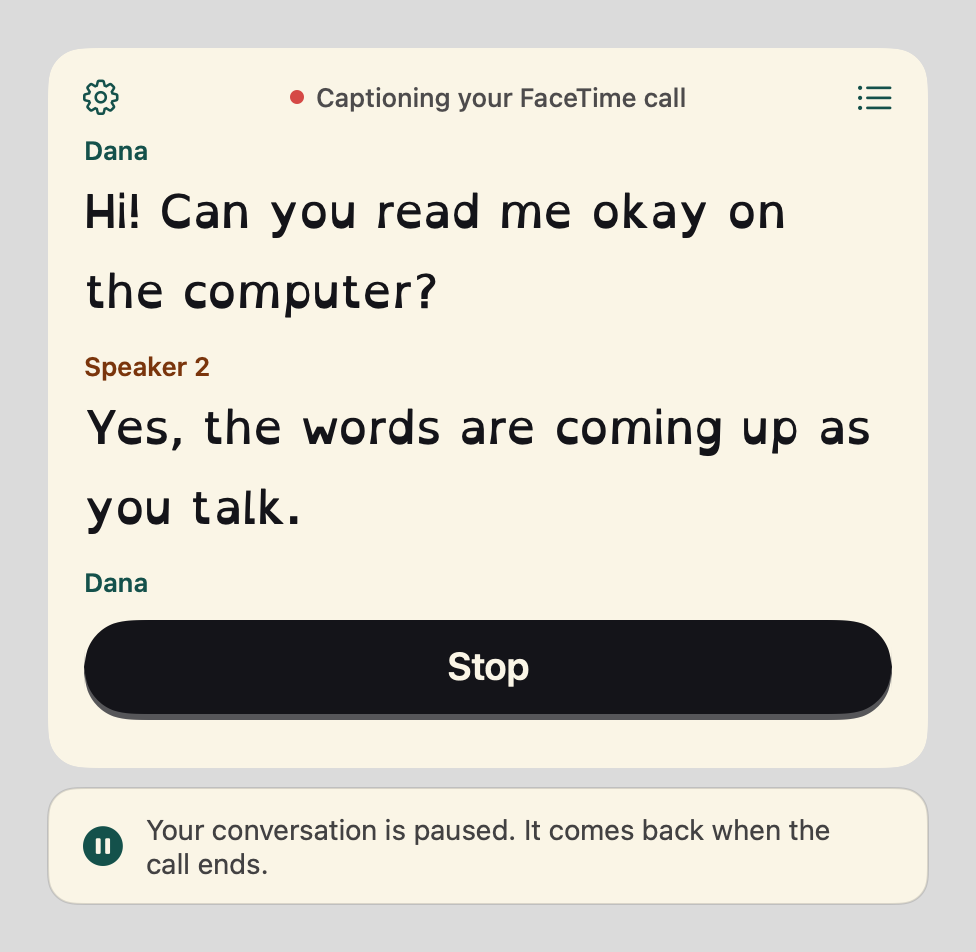
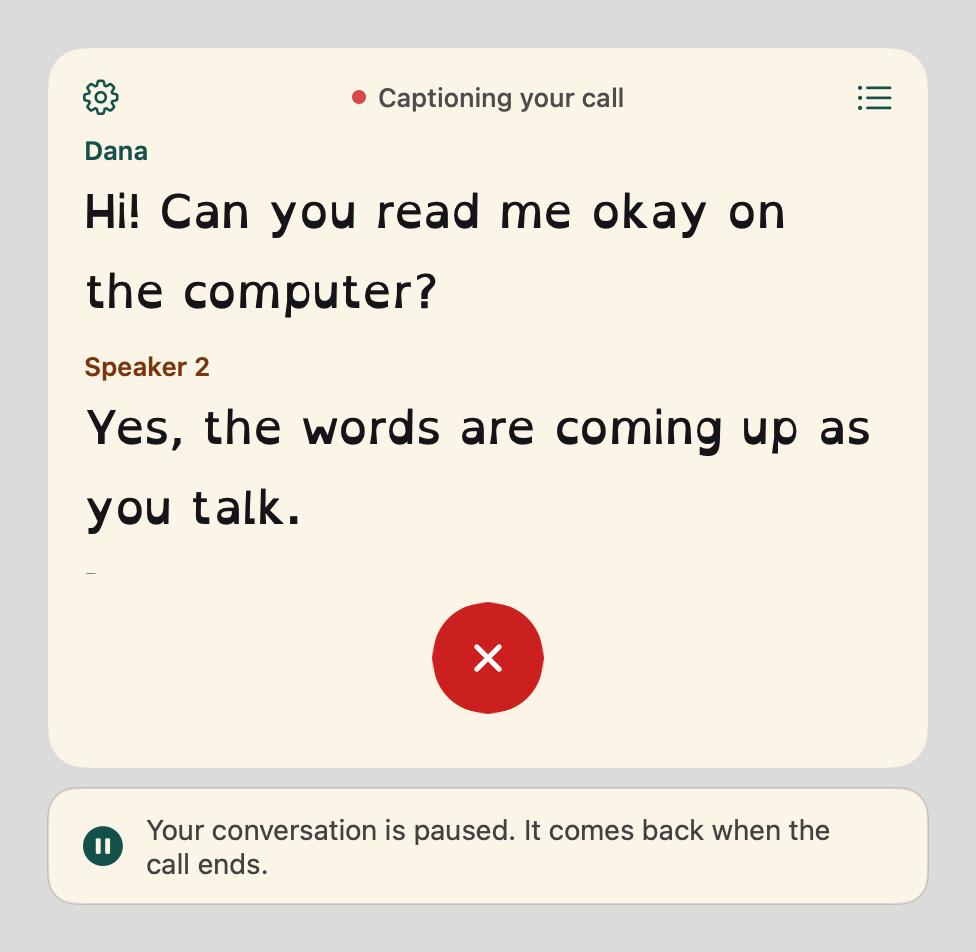
Mac: Stop becomes the iPhone's small X with its shrink; a gap above it; "Captioning your call" (#178)
Owner, 2026-10-28 ~21:20 UTC:
- While captioning, the pop-up's Stop bar is the iPhone's MorphingControl:
  the pill sweeps into the small red X and back, Reduce Motion a crossfade.
  The same file, now also in the Mac target; it gains pillHeight/titleFont
  with the iPhone's values as defaults, so the iPhone is unchanged and the
  Mac keeps its 47 pt Start captions pill. CallPopupView takes the
  PrimaryControl instead of a title.
- 14 pt between the newest caption line and the control.
- FaceTime-run calls (FaceTime and Continuity phone calls) read "Captioning
  your call"; Zoom/Teams/WhatsApp/Webex stay named.
CaptionCore: 775 tests, 0 failures. Mac app and iPhone app (CaptionSpike,
simulator) build.

Refs #178

Claude-Session: https://claude.ai/code/session_013wtERcznEHZfj6JwiA5Wiu

Changed region(s): [[0.0615, 0.6092, 0.9221, 0.7616], [0.2766, 0.0914, 0.707, 0.1218]]

diff --git a/Apps/Mac/Sources/CallPopupView.swift b/Apps/Mac/Sources/CallPopupView.swift
@@ -27,7 +27,8 @@ struct CallPopupView: View {
     let lines: [Line]
     let status: Status
     let style: CaptionStyle
-    let buttonTitle: String
+    /// Start captions / Getting ready… as a pill; while captioning, the iPhone's small X (#178).
+    let control: PrimaryControl
     var buttonEnabled = true
     var onPrimary: () -> Void = {}
     /// The gear: Settings, as on the iPhone (#172 parity).
@@ -46,6 +47,9 @@ struct CallPopupView: View {
     var roomLevelDBFS: Double? = nil
     /// Replaces the top bar's words: "Captioning your FaceTime call" only while a call app is really in a call (#178).
     var statusOverride: String? = nil
+
+    /// The Start captions pill's height on the Mac (its size before the iPhone's control came in).
+    static let pillHeight: CGFloat = 47
 
     private var speakerColors: [RGBA] {
         let colors = style.preset?.speakers ?? SpeakerPalette.colors(on: style.background, text: style.text)
@@ -66,15 +70,18 @@ struct CallPopupView: View {
                 Button(String(localized: "Save conversation"), action: onSave).disabled(!canSave)
                 Button(String(localized: "New conversation"), action: onNew)
             }
-            Button(action: onPrimary) {
-                Text(buttonTitle)
-                    .font(.system(size: 19, weight: .semibold))
+            // The iPhone's control (#178): the pill sweeps into a small red X while captioning and back, Reduce Motion a
+            // crossfade. A gap above it so the newest words never run into it.
+            GeometryReader { geo in
+                MorphingControl(control: control, fullWidth: geo.size.width, fill: style.text, label: style.background,
+                                pillHeight: Self.pillHeight, titleFont: .system(size: 19, weight: .semibold), action: onPrimary)
                     .frame(maxWidth: .infinity)
-                    .padding(.vertical, 12)
             }
-            .buttonStyle(GummyButtonStyle(style: style))
+            .frame(height: max(Self.pillHeight, PrimaryControl.compactDiameter) + GummyButtonStyle.restingLip)
             .disabled(!buttonEnabled)
+            .opacity(buttonEnabled ? 1 : 0.5)
             .keyboardShortcut(.space, modifiers: [])
+            .padding(.top, 14)
             .padding(.horizontal, 18)
             .padding(.bottom, 24)   // a little more room under Stop (owner, 2026-10-28)
         }

diff --git a/Apps/Spike/Sources/MorphingControl.swift b/Apps/Spike/Sources/MorphingControl.swift
@@ -16,6 +16,9 @@ struct MorphingControl: View {
     let label: RGBA
     /// DEBUG demos only: draw the pressed pill without a finger (simctl can't tap).
     var forcePressed: Bool = false
+    /// The pill's height and lettering. The iPhone's by default; the Mac pop-up keeps its own smaller pill (#178).
+    var pillHeight: CGFloat = 72 - GummyButtonStyle.restingLip
+    var titleFont: Font = .title.bold()
     let action: () -> Void
 
     @Environment(\.accessibilityReduceMotion) private var reduceMotion
@@ -23,8 +26,6 @@ struct MorphingControl: View {
     private var compact: Bool { control.presentation == .compact }
     private let stopRed = Color(red: 0.80, green: 0.12, blue: 0.12)
     private var diameter: CGFloat { PrimaryControl.compactDiameter }
-    /// The bar is 72 pt tall; the pill takes all of it but the resting lip.
-    private var pillHeight: CGFloat { 72 - GummyButtonStyle.restingLip }
     /// A capsule as a pill, a circle when compact: the same rounded rectangle, so the sweep stays smooth.
     private var shape: RoundedRectangle { RoundedRectangle(cornerRadius: (compact ? diameter : pillHeight) / 2, style: .continuous) }
 
@@ -41,7 +42,7 @@ struct MorphingControl: View {
                         .id(control.title)
                         .transition(Fluid.wordSwap(reduceMotion))
                 }
-                .font(.title.bold())
+                .font(titleFont)
                 .foregroundStyle(label.color)
                 .lineLimit(1)
                 .minimumScaleFactor(0.6)

diff --git a/Packages/CaptionCore/Sources/CaptionCore/CallWatcher.swift b/Packages/CaptionCore/Sources/CaptionCore/CallWatcher.swift
@@ -38,9 +38,10 @@ public enum CallSignal {
 
     public static func isCallLive(_ activity: [CallAudioActivity]) -> Bool { liveCallApp(activity) != nil }
 
-    /// The top bar's words while that app's call is captioned (owner, 2026-10-28).
+    /// The top bar's words while that app's call is captioned (owner, 2026-10-28). FaceTime calls and iPhone calls
+    /// handed to the Mac both run through FaceTime and can't be told apart, so neither is named (owner, ~21:20 UTC).
     public static func captioningWords(app: String) -> String {
-        String(localized: "Captioning your \(app) call")
+        app == "FaceTime" ? String(localized: "Captioning your call") : String(localized: "Captioning your \(app) call")
     }
 }
 

diff --git a/Apps/Mac/Sources/CaptionMacApp.swift b/Apps/Mac/Sources/CaptionMacApp.swift
@@ -81,7 +81,7 @@ struct CallPopupWindow: View {
                     lines: model.popupLines,
                     status: CallPopupView.Status(model.state, hasLines: !model.popupLines.isEmpty),
                     style: style,
-                    buttonTitle: control.title,
+                    control: control,
                     buttonEnabled: control.isEnabled && calls.arrival.step != .ended,   // #178: answer the save question first
                     onPrimary: { control.action == .stop ? model.stop() : model.start() },
                     onGear: { model.go { $0.gearTapped() } },

diff --git a/Apps/Mac/Sources/CallArrivalMockup.swift b/Apps/Mac/Sources/CallArrivalMockup.swift
@@ -35,7 +35,7 @@ struct CallArrivalMockup: View {
                 lines: step == .ringing ? room : call,
                 status: step == .ended ? .stopped("") : .captioning,
                 style: style,
-                buttonTitle: PrimaryControl.for(step == .ended ? .idle : .listening).title,
+                control: PrimaryControl.for(step == .ended ? .idle : .listening),
                 buttonEnabled: step != .ended,
                 statusOverride: step == .call ? CallSignal.captioningWords(app: "FaceTime") : step == .ended ? String(localized: "Call ended") : nil
             )

diff --git a/Packages/CaptionCore/Tests/CaptionCoreTests/CallSignalTests.swift b/Packages/CaptionCore/Tests/CaptionCoreTests/CallSignalTests.swift
@@ -80,6 +80,12 @@ final class CallAppNameTests: XCTestCase {
 
     func testWordsForTheTopBar() {
         XCTAssertEqual(CallSignal.captioningWords(app: "Zoom"), "Captioning your Zoom call")
+        XCTAssertEqual(CallSignal.captioningWords(app: "Teams"), "Captioning your Teams call")
+    }
+
+    func testFaceTimeRunCallsAreNotNamed() {
+        // A FaceTime call or an iPhone call handed to the Mac: the Mac can't tell which, so just "your call".
+        XCTAssertEqual(CallSignal.captioningWords(app: "FaceTime"), "Captioning your call")
     }
 }
 

diff --git a/Apps/Mac/Sources/CallPopupMockup.swift b/Apps/Mac/Sources/CallPopupMockup.swift
@@ -28,7 +28,7 @@ struct CallPopupMockup: View {
             lines: variant == .auto ? lines : [],
             status: CallPopupView.Status(state, hasLines: variant == .auto),
             style: style,
-            buttonTitle: PrimaryControl.for(state).title,
+            control: PrimaryControl.for(state),
             roomLevelDBFS: variant == .auto ? -28 : -60   // someone talking; a quiet room
         )
         .frame(width: 440)
